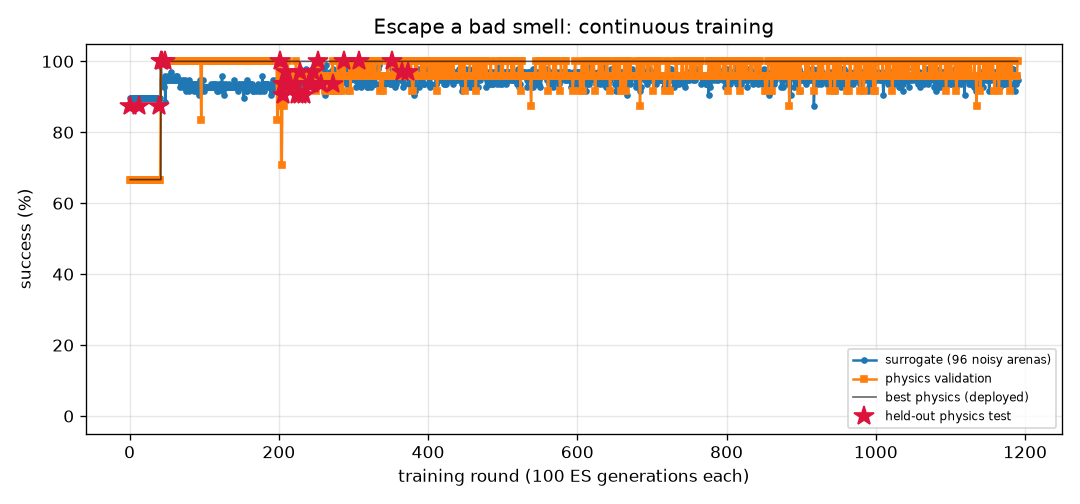
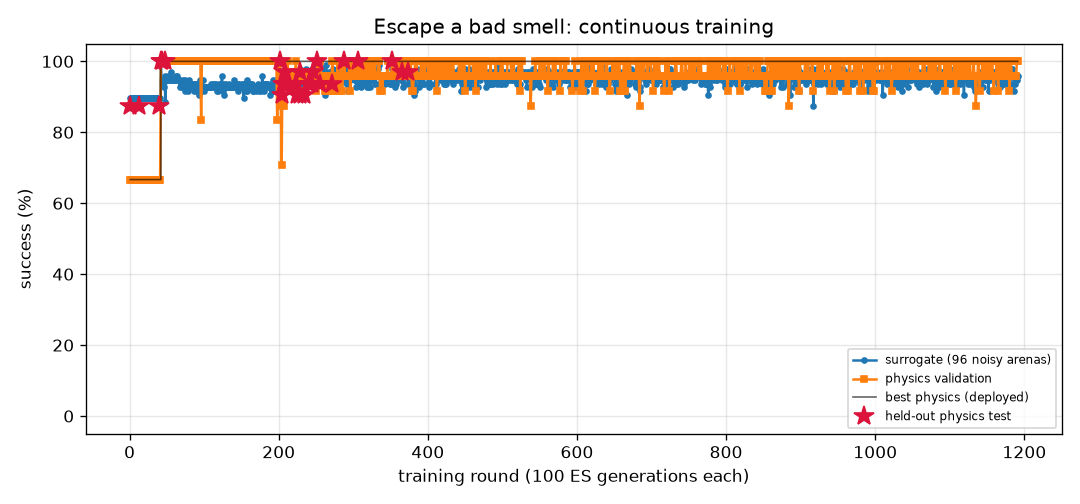
FlyLab: continuous training progress
- walk_forward: optimal, physics val 100% of 24, round 574
- turn: optimal, physics val 100% of 24, round 1426
- goto: optimal, physics val 100% of 24, round 442
- odor_seek: optimal, physics val 100% of 24, round 355
- odor_avoid: optimal, physics val 100% of 24, round 1191
- light_seek: optimal, physics val 100% of 24, round 647
- light_avoid: optimal, physics val 100% of 24, round 903

diff --git a/projects/09_flylab/training/odor_avoid/REPORT.md b/projects/09_flylab/training/odor_avoid/REPORT.md
@@ -1,14 +1,14 @@
 # Escape a bad smell (`odor_avoid`) — training report
 
-*Auto-generated by `train_brains.py`, last updated 2026-11-28T17:38:02.*
+*Auto-generated by `train_brains.py`, last updated 2026-11-28T17:49:29.*
 
 ![curve](curve.png)
 
 | | |
 |---|---|
-| rounds | 1190 |
-| ES generations | 119000 |
-| physics runs | 25866 |
+| rounds | 1191 |
+| ES generations | 119100 |
+| physics runs | 25890 |
 | status | **optimal** |
 | best brain | round 373: physics validation **100%** on 24 arenas, surrogate 97% |
 | held-out physics test | **97%** on 32 unseen arenas (95% CI 84%-99%) (errors: [62.0, 57.4, 62.6, 61.9, 59.0, 61.6, 56.5, 60.7, 31.7, 60.9, 63.1, 57.1, 61.1, 62.1, 61.5, 60.2, 62.2, 55.2, 62.1, 54.2, 61.3, 62.0, 58.0, 61.9, 59.8, 56.5, 56.3, 56.4, 56.3, 57.7, 61.9, 32.4]) |
@@ -17,7 +17,6 @@ Physics error per arena: mm gained away from source (> 6 without first approachi
 
 | round | level | gens | sigma | surrogate | physics val | val errors | test | note |
 |---:|---:|---:|---:|---:|---:|---|---:|---|
-| 1151 | 3 | 115100 | 0.027 | 95% | 96% | [62.5, 59.9, 56.2, 60.9, 62.5, 61.8, 61.7, 35.0, 62.2, 60.3, 61.9, 62.2, 52.5, 55.0, 40.3, 61.4, 62.0, 61.0, 54.9, 57.4, 62.2, 60.3, 60.1, 48.2] |  |  |
 | 1152 | 3 | 115200 | 0.027 | 92% | 96% | [60.9, 59.9, 56.0, 59.1, 62.0, 61.0, 61.4, 59.6, 61.8, 59.9, 61.9, 61.7, 54.8, 56.2, 15.2, 61.1, 61.5, 61.8, 55.1, 56.9, 61.7, 60.3, 59.3, 60.0] |  |  |
 | 1153 | 3 | 115300 | 0.029 | 96% | 96% | [60.3, 56.6, 55.7, 58.4, 57.9, 38.8, 59.5, 43.9, 59.0, 14.6, 11.2, 60.0, 51.2, 54.6, 37.4, 57.8, 60.0, 35.1, 51.4, 56.9, 59.9, 25.4, 58.4, 20.1] |  | restart from best |
 | 1154 | 3 | 115400 | 0.026 | 95% | 100% | [62.9, 60.7, 58.0, 60.1, 60.8, 61.5, 61.7, 28.4, 61.8, 46.4, 59.5, 60.2, 52.2, 55.6, 46.1, 62.1, 61.0, 61.3, 53.5, 60.0, 60.3, 50.3, 57.7, 50.1] |  |  |
@@ -57,3 +56,4 @@ Physics error per arena: mm gained away from source (> 6 without first approachi
 | 1188 | 3 | 118800 | 0.026 | 94% | 96% | [62.9, 59.4, 58.9, 59.5, 61.7, 62.5, 60.4, 59.7, 61.6, 62.3, 61.4, 60.8, 55.1, 58.2, 49.9, 61.7, 61.4, 62.0, 55.3, 56.8, 61.2, 62.2, 59.6, 61.7] |  |  |
 | 1189 | 3 | 118900 | 0.028 | 96% | 96% | [60.7, 56.0, 57.2, 56.2, 61.5, 62.2, 60.6, 47.1, 60.5, 59.6, 61.3, 61.7, 54.3, 58.2, 42.6, 61.7, 61.3, 61.0, 54.8, 53.8, 61.6, 61.0, 56.2, 48.1] |  | restart from best |
 | 1190 | 3 | 119000 | 0.026 | 95% | 100% | [63.0, 57.7, 56.1, 60.8, 61.5, 60.4, 61.0, 39.6, 60.4, 59.6, 61.4, 61.6, 54.4, 56.9, 42.9, 60.7, 62.0, 60.2, 55.1, 57.1, 61.6, 59.2, 61.0, 56.6] |  |  |
+| 1191 | 3 | 119100 | 0.027 | 96% | 100% | [62.1, 59.8, 56.1, 60.9, 61.3, 62.2, 61.9, 59.8, 61.6, 60.6, 60.6, 61.8, 54.5, 55.4, 31.4, 60.4, 62.0, 61.8, 55.2, 59.7, 61.5, 57.5, 59.7, 60.7] |  |  |

diff --git a/projects/09_flylab/training/light_avoid/REPORT.md b/projects/09_flylab/training/light_avoid/REPORT.md
@@ -1,14 +1,14 @@
 # Hide from light (`light_avoid`) — training report
 
-*Auto-generated by `train_brains.py`, last updated 2026-11-27T23:38:50.*
+*Auto-generated by `train_brains.py`, last updated 2026-11-28T17:52:31.*
 
 ![curve](curve.png)
 
 | | |
 |---|---|
-| rounds | 902 |
-| ES generations | 90200 |
-| physics runs | 21920 |
+| rounds | 903 |
+| ES generations | 90300 |
+| physics runs | 21944 |
 | status | **optimal** |
 | best brain | round 159: physics validation **100%** on 24 arenas, surrogate 100% |
 | held-out physics test | **100%** on 32 unseen arenas (95% CI 89%-100%) (errors: [14.4, 56.1, 58.0, 57.9, 57.5, 14.0, 14.4, 56.6, 56.8, 13.3, 14.1, 56.6, 57.6, 13.1, 57.3, 55.9, 57.2, 55.0, 55.2, 53.9, 55.2, 12.4, 53.8, 53.7, 14.1, 13.7, 55.0, 57.8, 56.2, 13.1, 52.8, 56.5]) |
@@ -17,7 +17,6 @@ Physics error per arena: mm gained away from source (> 6 without first approachi
 
 | round | level | gens | sigma | surrogate | physics val | val errors | test | note |
 |---:|---:|---:|---:|---:|---:|---|---:|---|
-| 863 | 3 | 86300 | 0.024 | 100% | 100% | [55.3, 57.4, 57.3, 54.7, 53.8, 54.0, 56.7, 14.5, 50.0, 13.3, 56.2, 53.6, 14.4, 53.2, 57.2, 54.6, 14.2, 55.3, 57.0, 14.4, 55.2, 56.0, 56.9, 52.4] |  | restart from best |
 | 864 | 3 | 86400 | 0.024 | 100% | 100% | [38.2, 37.5, 37.6, 40.1, 39.0, 40.5, 35.5, 14.5, 36.1, 13.2, 40.2, 40.3, 14.4, 39.0, 38.3, 40.0, 14.2, 38.9, 36.8, 14.4, 38.5, 38.5, 35.1, 40.9] |  |  |
 | 865 | 3 | 86500 | 0.024 | 100% | 100% | [53.5, 58.4, 57.6, 54.4, 59.3, 55.1, 56.0, 14.5, 55.7, 11.2, 57.9, 59.1, 14.4, 57.3, 57.9, 54.5, 14.2, 59.6, 58.7, 14.4, 54.4, 57.9, 56.3, 58.8] |  |  |
 | 866 | 3 | 86600 | 0.024 | 100% | 100% | [45.0, 45.0, 44.4, 44.3, 46.2, 45.3, 42.1, 14.5, 44.4, 13.3, 44.8, 46.4, 14.4, 46.0, 43.8, 45.1, 14.2, 46.3, 45.1, 14.4, 44.2, 46.0, 42.5, 46.5] |  |  |
@@ -57,3 +56,4 @@ Physics error per arena: mm gained away from source (> 6 without first approachi
 | 900 | 3 | 90000 | 0.024 | 100% | 100% | [43.4, 46.4, 45.9, 46.3, 47.0, 43.3, 44.5, 14.5, 42.3, 13.4, 46.0, 47.0, 14.4, 46.6, 46.1, 47.3, 14.2, 47.6, 46.3, 14.4, 46.0, 46.8, 44.8, 46.6] |  |  |
 | 901 | 3 | 90100 | 0.024 | 100% | 100% | [53.3, 57.8, 57.5, 54.3, 58.1, 54.4, 56.0, 14.5, 54.2, 13.2, 57.2, 58.0, 14.4, 55.7, 57.6, 53.3, 14.2, 58.6, 58.0, 14.4, 51.3, 57.2, 55.7, 57.6] |  |  |
 | 902 | 3 | 90200 | 0.024 | 100% | 100% | [39.5, 36.8, 36.8, 40.2, 40.3, 38.7, 35.0, 14.5, 38.6, 13.3, 38.2, 41.2, 14.4, 39.5, 38.0, 37.2, 14.2, 40.2, 38.1, 14.4, 31.7, 38.3, 35.6, 40.0] |  |  |
+| 903 | 3 | 90300 | 0.024 | 100% | 100% | [34.8, 35.2, 34.6, 34.9, 32.1, 33.5, 35.2, 14.5, 32.8, 13.5, 35.7, 33.8, 14.4, 33.6, 35.1, 34.6, 14.2, 33.0, 35.3, 14.4, 33.9, 34.9, 36.3, 32.6] |  | restart from best |

diff --git a/projects/09_flylab/training/TRAINING.md b/projects/09_flylab/training/TRAINING.md
@@ -1,6 +1,6 @@
 # FlyLab brains — continuous training log
 
-*Auto-generated by `train_brains.py`, last updated 2026-11-28T17:43:31.*
+*Auto-generated by `train_brains.py`, last updated 2026-11-28T17:52:31.*
 
 Every skill has its own brain and its own training process: surrogate ES rounds, physics validation in MuJoCo, keep-the-best selection, and a held-out physics test that is never used for selection. See each skill's report for its full round-by-round history. Mastery is progressive: passing a level (100% physics validation, >=95% surrogate) doubles the validation and test arena sets; a brain is **optimal** once it holds up at level 3 (>=95% of 24 validation arenas) AND scores >=90% on the 32 held-out test arenas. Test columns show 95% Wilson confidence intervals.
 
@@ -10,6 +10,6 @@ Every skill has its own brain and its own training process: surrogate ES rounds,
 | [Turn in place](turn/REPORT.md) | 1426 | 142600 | 34470 | 100% | 100% of 24 | 97% of 32 (CI 84-99%) | **optimal** |
 | [Go to a location](goto/REPORT.md) | 442 | 44200 | 10558 | 100% | 100% of 24 | 100% of 32 (CI 89-100%) | **optimal** |
 | [Find food by smell](odor_seek/REPORT.md) | 355 | 35500 | 8014 | 100% | 100% of 24 | 100% of 32 (CI 89-100%) | **optimal** |
-| [Escape a bad smell](odor_avoid/REPORT.md) | 1190 | 119000 | 25866 | 97% | 100% of 24 | 97% of 32 (CI 84-99%) | **optimal** |
+| [Escape a bad smell](odor_avoid/REPORT.md) | 1191 | 119100 | 25890 | 97% | 100% of 24 | 97% of 32 (CI 84-99%) | **optimal** |
 | [Walk toward light](light_seek/REPORT.md) | 647 | 64700 | 12408 | 100% | 100% of 24 | 100% of 32 (CI 89-100%) | **optimal** |
-| [Hide from light](light_avoid/REPORT.md) | 902 | 90200 | 21920 | 100% | 100% of 24 | 100% of 32 (CI 89-100%) | **optimal** |
+| [Hide from light](light_avoid/REPORT.md) | 903 | 90300 | 21944 | 100% | 100% of 24 | 100% of 32 (CI 89-100%) | **optimal** |
